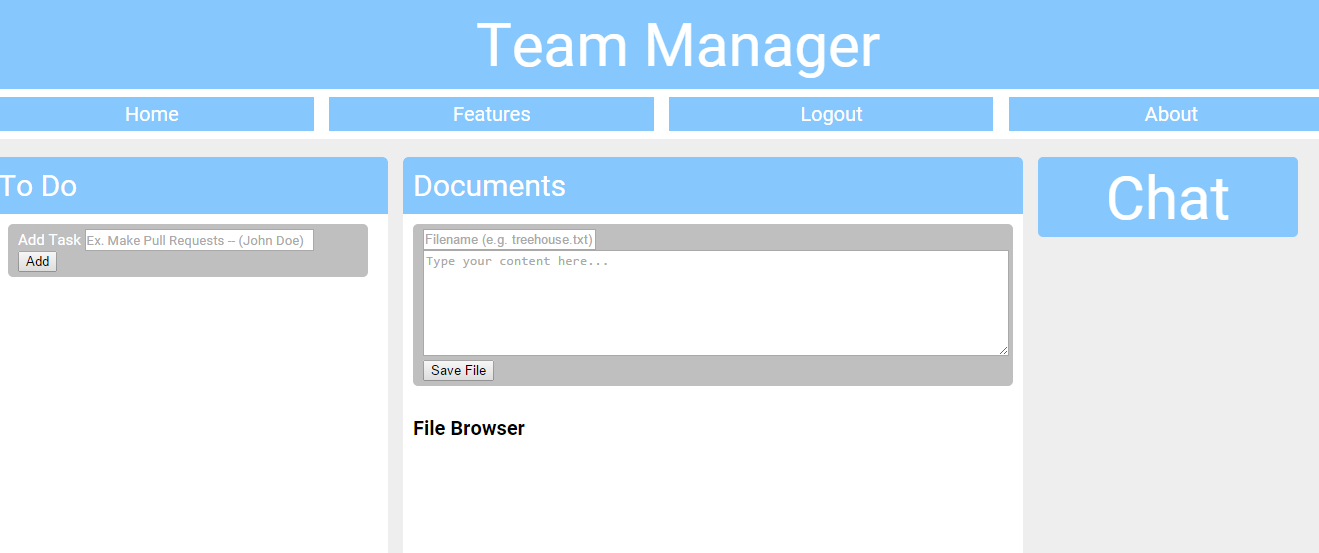
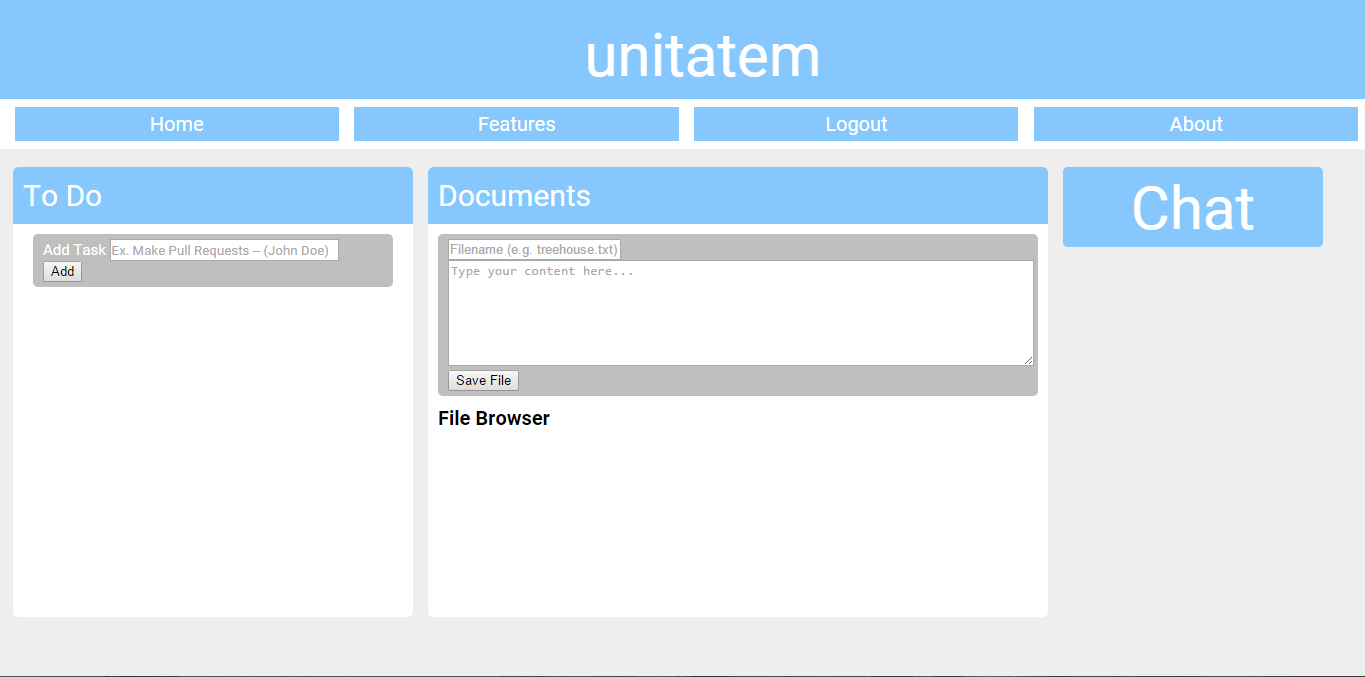
final

Changed region(s): [[0.0, 0.0307, 1.0, 0.7071], [0.0, 0.9837, 1.0, 1.0], [0.3108, 0.7378, 0.4041, 0.7993]]

diff --git a/index.html b/index.html
@@ -1,7 +1,7 @@
 <!DOCTYPE html>
 <html>
     <head>
-    <title>Team Manager: Homepage</title>
+    <title>Unitatem: Homepage</title>
         <link href="CSS/stylesheet1.css" type="text/css" rel="stylesheet" />
         <link href='http://fonts.googleapis.com/css?family=Roboto:400,400italic,700,700italic' rel='stylesheet' type='text/css'>
         <link href='http://fonts.googleapis.com/css?family=Open+Sans|Abril+Fatface|Dancing+Script' rel='stylesheet' type='text/css'>
@@ -9,18 +9,18 @@
     <meta http-equiv="author" content="Monty Power Squad" />
     </head> 
     <body>
-        <div class="header">Team Manager</div>
+        <div class="header">unitatem</div>
         <div class="homeTabs">
             <a href="index.html">Home</a><a href="Features/features.html">Features</a><a href="Login/login.html">Login</a><a href="About/About.html">About</a>
         </div>
         <div style="position:fixed;margin-top:200px;margin-left:15%;background-color:#fff;border-radius:5px;width:70%;height:60%;text-align:center;padding:10px;overflow:auto;">
     <h2>THIS IS IT</h2><p>
-        Welcome to Team Manager Application, use this website to organize your tasks, share and chat with your team!
+        Welcome to Unitatem! Use this website to organize your tasks, share and chat with your team!
         </p>
         <p id="pics">
-            <img src="images/TeamManager.PNG" class="large" alt="team manager" title="Team Manager Interface" />
-            <img src="images/Chat.PNG" class="large" alt="team manager chat" title="Chat in Team Manager" />
-            <img src="images/To%20Do.PNG" class="large" alt="to do" title="The Task List for Team Manager" />
+            <img src="images/TeamManager.PNG" class="large" alt="Unitatem" title="Unitatem Interface" />
+            <img src="images/Chat.PNG" class="large" alt="Unitatem chat" title="Chat in Unitatem" />
+            <img src="images/To%20Do.PNG" alt="to do" title="The Task List for Unitatem" />
             
             </p> 
         </div>

diff --git a/About/About.html b/About/About.html
@@ -1,24 +1,25 @@
 <html>
     <head>
-        <title>About: The Devs</title>
+        <title>Unitatem: The Devs</title>
         <link href="css/stylesheet1.css" type="text/css" rel="stylesheet" />
         <link href='http://fonts.googleapis.com/css?family=Roboto:400,400italic,700,700italic' rel='stylesheet' type='text/css'>
     </head>
 	<body>
-        <div class = "header">Team Manager</div>
+        <div class = "header">unitatem</div>
         <div class = "homeTabs">
             <a href="../index.html">Home</a><a href= "../Features/features.html">Features</a><a href="../Login/login.html">Login</a><a href="../About/About.html">About</a>
         </div>
 <div style="position:fixed;margin-top:200px;margin-left:15%;background-color:#fff;border-radius:5px;width:70%;height:60%;text-align:center;padding:10px;overflow:auto;">
         <h1>About the Developers</h1>
-        <h2>Julia Guo -- Super cool person</h2>
-    <p>I am really cool.</p>
         <h2>Harismaran Jagannathan -- The Ineffable Man</h2>
         
 		<h2>Siddhesh Dabholkar -- Professional Man with a Plan</h2>
 			<p> What is my passion? <br /> Humanity is my passion. I've always wanted to take a step back, examine the state of our human psyche.
 			From there, to understand and find ways to solve <em> problems </em>. From there, I've started and led many projects. Interested, or               have more questions? <a href="mailto:saish.dabholkar@gmail.com">Email me.</a>
 			</p> <hr /> 
+        <h2>Vancha Verma -- I code, eat food, and sleep. </h2>
+        <h2>Audrey Lee -- I code, eat food, and sleep. </h2>
+        <h2>Julia Guo -- I like Web Design, Anime and high School musical.</h2>
 			
 			<h3>Projects</h3>
 			<ul>

diff --git a/Login/confirmation.html b/Login/confirmation.html
@@ -3,13 +3,13 @@
     <head>
         <link href="../CSS/stylesheet1.css" type="text/css" rel="stylesheet" />
         <link href='http://fonts.googleapis.com/css?family=Roboto:400,400italic,700,700italic' rel='stylesheet' type='text/css'>  
-    <title>APPNAME: New Account Confirmation</title>
+    <title>Unitatem: New Account Confirmation</title>
         <link href="CSS/stylesheet1" type="text/css" rel="stylesheet" />
         <link href='http://fonts.googleapis.com/css?family=Roboto:400,400italic,700,700italic' rel='stylesheet' type='text/css'>
         <meta http-equiv="author" content="Monty Power Squad" />
     </head> 
     <body>
-        <div class = "header">Team Manager</div>
+        <div class = "header">Unitatem</div>
         <div class = "homeTabs">
             <a href="../index.html">Home</a><a href= "../Features/features.html">Features</a><a href="../Login/login.html">Login</a><a href="../About/About.html">About</a>
         </div>

diff --git a/Login/Logout.html b/Login/Logout.html
@@ -3,13 +3,13 @@
     <head>
         <link href="../CSS/stylesheet1.css" type="text/css" rel="stylesheet" />
         <link href='http://fonts.googleapis.com/css?family=Roboto:400,400italic,700,700italic' rel='stylesheet' type='text/css'>  
-    <title>APPNAME: Logout</title>
+    <title>Unitatem: Logout</title>
         <link href="CSS/stylesheet1" type="text/css" rel="stylesheet" />
         <link href='http://fonts.googleapis.com/css?family=Roboto:400,400italic,700,700italic' rel='stylesheet' type='text/css'>
         <meta http-equiv="author" content="Monty Power Squad" />
     </head> 
     <body>
-        <div class = "header">Team Manager</div>
+        <div class = "header">unitatem</div>
         <div class = "homeTabs">
             <a href="../index.html">Home</a><a href= "../Features/features.html">Features</a><a href="../Login/login.html">Login</a><a href="../About/About.html">About</a>
         </div>

diff --git a/Login/login.html b/Login/login.html
@@ -3,13 +3,13 @@
     <head>
         <link href="css/stylesheet1.css" type="text/css" rel="stylesheet" />
         <link href='http://fonts.googleapis.com/css?family=Roboto:400,400italic,700,700italic' rel='stylesheet' type='text/css'>  
-    <title>APPNAME: Sign In</title>
+    <title>Unitatem: Sign In</title>
         <link href="CSS/stylesheet1" type="text/css" rel="stylesheet" />
         <link href='http://fonts.googleapis.com/css?family=Roboto:400,400italic,700,700italic' rel='stylesheet' type='text/css'>
         <meta http-equiv="author" content="Monty Power Squad" />
     </head> 
     <body>
-        <div class = "header">Team Manager</div>
+        <div class = "header">unitatem</div>
         <div class = "homeTabs">
             <a href="../index.html">Home</a><a href= "../Features/features.html">Features</a><a href="../Login/login.html">Login</a><a href="../About/About.html">About</a>
         </div>

diff --git a/Login/signup.html b/Login/signup.html
@@ -3,13 +3,13 @@
     <head>
         <link href="css/stylesheet1.css" type="text/css" rel="stylesheet" />
         <link href='http://fonts.googleapis.com/css?family=Roboto:400,400italic,700,700italic' rel='stylesheet' type='text/css'>  
-    <title>APPNAME: Sign up</title>
+    <title>Unitatem: Sign up</title>
         <link href="CSS/stylesheet1" type="text/css" rel="stylesheet" />
         <link href='http://fonts.googleapis.com/css?family=Roboto:400,400italic,700,700italic' rel='stylesheet' type='text/css'>
         <meta http-equiv="author" content="Monty Power Squad" />
     </head> 
     <body>
-        <div class = "header">Team Manager</div>
+        <div class = "header">unitatem</div>
         <div class = "homeTabs">
             <a href="../index.html">Home</a><a href= "../Features/features.html">Features</a><a href="../Login/login.html">Login</a><a href="../About/About.html">About</a>
         </div>

diff --git a/App/widgetpage.html b/App/widgetpage.html
@@ -2,7 +2,7 @@
 <html lang="en">
 <head>
   <meta charset="UTF-8">
-  <title>To Do List</title>
+  <title>Unitatem: Apps</title>
     <link href="app.css" type="text/css" rel="stylesheet" />
     <link href='http://fonts.googleapis.com/css?family=Roboto:400,400italic,700,700italic' rel='stylesheet' type='text/css'>
     <link href='http://fonts.googleapis.com/css?family=Open+Sans|Abril+Fatface|Dancing+Script' rel='stylesheet' type='text/css'>
@@ -10,7 +10,7 @@
   <meta http-equiv="X-UA-Compatible" content="IE=edge,chrome=1">
 </head>
 <body>
-        <div class="header">Team Manager</div>
+        <div class="header">unitatem</div>
 
         <div class="homeTabs">
             <a href="../index.html">Home</a><a href="../Features/features.html">Features</a><a href="../Login/Logout.html">Logout</a><a href="../About/About.html">About</a>

diff --git a/Login/CSS/stylesheet1.css b/Login/CSS/stylesheet1.css
@@ -62,15 +62,3 @@ h1, h2, h3 {
     background:#fff;
     border:1px solid #86C8FD;
 }
-img.large {
-width: 550px;
-height: 500px;
-}
-img.medium {
-width: 300px;
-height: 250px;
-}
-img.small {
-width: 100px;
-height: 100px;
-}
